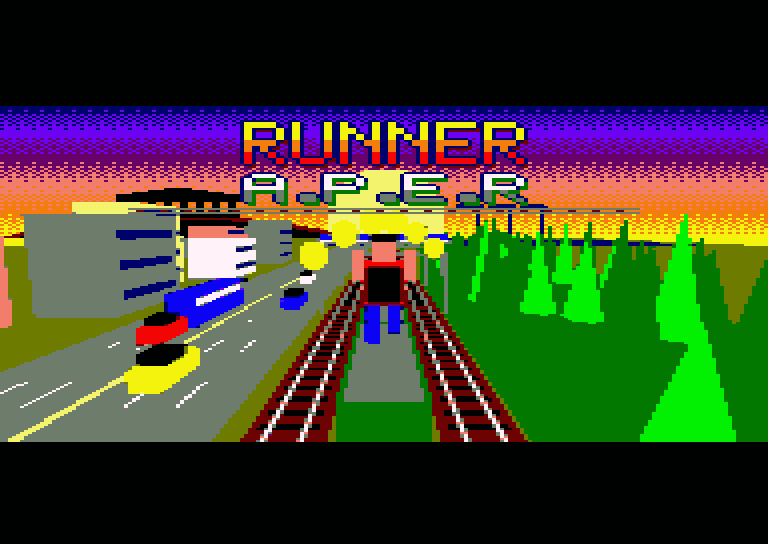
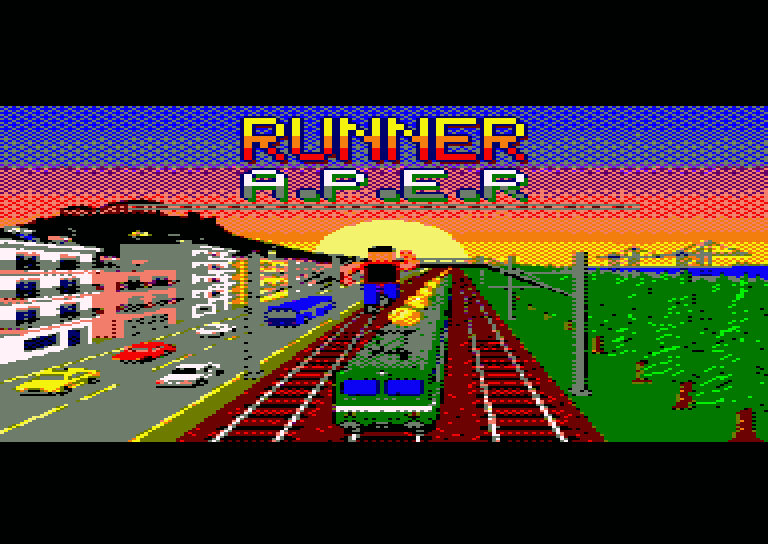
Loading screen from the painted art
tools/art2loading.py (make loading): paints over the art's own title,
scales to 192x168, stronger colours, two-ink Bayer dither (freer in the
sky), the game's logo on top. The Blender scene stays as make
loading-blender. The bigger packed picture loads a little later: the boot
test and the screenshot wait 300 frames.

diff --git a/tools/art2loading.py b/tools/art2loading.py
@@ -1,0 +1,94 @@
+"""Painted loading screen art -> CPC loading screen.
+
+Input:  assets/loading/loading_art.jpg (any size; the scene the game's
+        logo goes on, with empty sky at the top)
+Output: assets/loading/loading_cpc.png      192x168 mode 0 pixels, indexed with
+                                            the 16 loading inks
+        assets/loading/loading_palette.txt  the inks (tools/mkloading.py)
+
+The art's own lettering is painted over with the sky, the art is cropped
+(CROP) and scaled to 192x168 (mode 0 pixels are twice as wide as tall, so the
+picture is squashed vertically less than it looks), its colours are made
+stronger (SATURATION) and each pixel is a mix of two inks picked through an
+ordered Bayer 4x4 dither (the dither of 8-bit loading screens); the game's
+logo goes on top. tools/scr2cpc.py turns loading_cpc.png into screen memory.
+"""
+
+import os
+import sys
+
+from PIL import Image, ImageEnhance
+
+sys.path.insert(0, os.path.dirname(os.path.abspath(__file__)))
+import mkloading  # noqa: E402
+from cpcpalette import ROOT  # noqa: E402
+
+SRC = os.path.join(ROOT, "assets", "loading", "loading_art.jpg")
+W, H = mkloading.W, mkloading.H
+CROP = (0.0, 0.03, 1.0, 0.97)           # left, top, right, bottom (fractions)
+SATURATION = 1.8
+LOGO_AT = (24, 4)
+ART_LETTERING = (0.30, 0.02, 0.70, 0.19)  # the art's own title: painted over with the sky
+SKY_SAMPLE_X = 0.15                       # a column of clear sky beside it
+LEVELS = 8                               # mixes of two inks: 0/8 .. 8/8
+INKS = [mkloading.rgb(ink) for ink in range(16)]
+
+
+def error(c, d):
+    """Weighted RGB distance (eye: G > B > R) plus the difference in hue
+    (blue-ish sky must not become grey)."""
+    hue = ((c[2] - c[0]) - (d[2] - d[0])) ** 2 + ((c[1] - c[0]) - (d[1] - d[0])) ** 2
+    return 2 * (c[0] - d[0]) ** 2 + 4 * (c[1] - d[1]) ** 2 + 3 * (c[2] - d[2]) ** 2 + 2 * hue
+
+
+# mixing two far-apart inks looks noisy: a penalty, small in the sky (smooth
+# dithered bands) and larger in the scene (clean shapes)
+SKY_LINES, SKY_NOISE, SCENE_NOISE = 64, 0.05, 0.15
+MIXES = []
+for a in range(16):
+    for b in range(a, 16):
+        for r in range(LEVELS + 1 if a != b else 1):
+            t = r / LEVELS
+            mix = [INKS[a][i] * (1 - t) + INKS[b][i] * t for i in range(3)]
+            noise = 0 if r in (0, LEVELS) else error(INKS[a], INKS[b])
+            MIXES.append((mix, noise, a, b, r))
+_cache = {}
+
+
+def mix_for(c, noise):
+    """Two inks and how much of the second (r / LEVELS) for colour c."""
+    key = (c[0] >> 3, c[1] >> 3, c[2] >> 3, noise)
+    if key not in _cache:
+        _cache[key] = min(MIXES, key=lambda m: error(c, m[0]) + noise * m[1])[2:]
+    return _cache[key]
+
+
+def convert(src=SRC):
+    art = Image.open(src).convert("RGB")
+    w, h = art.size
+    x0, y0, x1, y1 = (round(f * n) for f, n in zip(ART_LETTERING, (w, h, w, h)))
+    for y in range(y0, y1):
+        art.paste(art.getpixel((round(SKY_SAMPLE_X * w), y)), (x0, y, x1, y + 1))
+    box = (round(CROP[0] * w), round(CROP[1] * h), round(CROP[2] * w), round(CROP[3] * h))
+    art = art.crop(box).resize((W, H), Image.LANCZOS)
+    art = ImageEnhance.Color(art).enhance(SATURATION)
+    px = [[0] * W for _ in range(H)]
+    for y in range(H):
+        for x in range(W):
+            a, b, r = mix_for(art.getpixel((x, y)), SKY_NOISE if y < SKY_LINES else SCENE_NOISE)
+            px[y][x] = b if r * 16 > mkloading.BAYER[y % 4][x % 4] * LEVELS else a
+    logo = Image.open(os.path.join(ROOT, "gfx", "png", "logo.png")).convert("RGBA")
+    nearest = {}
+    for y in range(logo.height):
+        for x in range(logo.width):
+            rgba = logo.getpixel((x, y))
+            if rgba[3] and rgba[:3] != (0, 0, 0):
+                if rgba[:3] not in nearest:
+                    nearest[rgba[:3]] = min(range(16), key=lambda i: error(INKS[i], rgba[:3]))
+                px[LOGO_AT[1] + y][LOGO_AT[0] + x] = nearest[rgba[:3]]
+    mkloading.save(px)
+
+
+if __name__ == "__main__":
+    convert()
+    print(f"loading    {os.path.relpath(SRC, ROOT)} -> {os.path.relpath(mkloading.OUT, ROOT)}")

diff --git a/tools/tests/test_boot.py b/tools/tests/test_boot.py
@@ -30,7 +30,7 @@ def test_loader_shows_the_loading_screen():
     cpc.run_frames(BOOT_FRAMES)
     cpc.insert_disc(DSK)
     cpc.type_text('RUN"DISC\n')
-    cpc.run_frames(250)                                  # banks loading
+    cpc.run_frames(300)                                  # banks loading
     assert 0x8000 <= cpc.pc or cpc.pc < 0x4000, f"PC #{cpc.pc:04X}: still loading"
     used = [a for line in range(rows * 8) for a in range((line & 7) * 0x800 + (line >> 3) * 96,
                                                           (line & 7) * 0x800 + (line >> 3) * 96 + 96)]

diff --git a/tools/screenshots.py b/tools/screenshots.py
@@ -52,7 +52,7 @@ def main():
     cpc.run_frames(BOOT_FRAMES)
     cpc.insert_disc(DSK)
     cpc.type_text('RUN"DISC\n')
-    cpc.run_frames(250)
+    cpc.run_frames(300)
     shot(cpc, "01_loading.png")
 
     cpc = boot_game(menu=True)

diff --git a/plan.md b/plan.md
@@ -465,6 +465,10 @@ APERRunner/
   Workbench flat + περιγράμματα, διάφανος ουρανός, 1536×672 (`loading_4x.png`, `loading_scene.blend`).
   `tools/quantize_loading.py`: box filter → 384×168 → 192×168, ουρανός ηλιοβασιλέματος με Bayer dither, ήλιος, σιλουέτα
   Ακρόπολης, σκηνή στο πλησιέστερο ink χωρίς dither, λογότυπο από πάνω. Ink 15 = OLIVE (έδαφος).
+  **Τελική εικόνα**: ζωγραφιά (`assets/loading/loading_art.jpg`, από μοντέλο εικόνας με βάση το render) →
+  `tools/art2loading.py` (`make loading`): σβήνει τη δική της επιγραφή, 192×168 (συμπίεση κάθετα), κορεσμός ×1,8, κάθε pixel
+  μείγμα δύο inks με Bayer dither (ελεύθερο στον ουρανό, λιγότερο στη σκηνή), το λογότυπο του παιχνιδιού από πάνω.
+  Το Blender μένει ως `make loading-blender`.
 - [x] **8.2** Loader σε assembly (`src/loader.asm` → `LOADER.BIN` στο &8000, καλείται από το `DISC`): firmware ενεργό, mode 0,
   inks μαύρα, CRTC R1=48/R2=50/R6=21/R7=28 (πλήρες πλάτος, 21 σειρές, κεντραρισμένη), φόρτωση + αποσυμπίεση ZX0 στο &C000, inks της
   εικόνας, φόρτωση banks C4–C7 και `APER.BIN` με CAS IN (buffer &9800), άλμα στο &4000 (το stub κλείνει το firmware).
